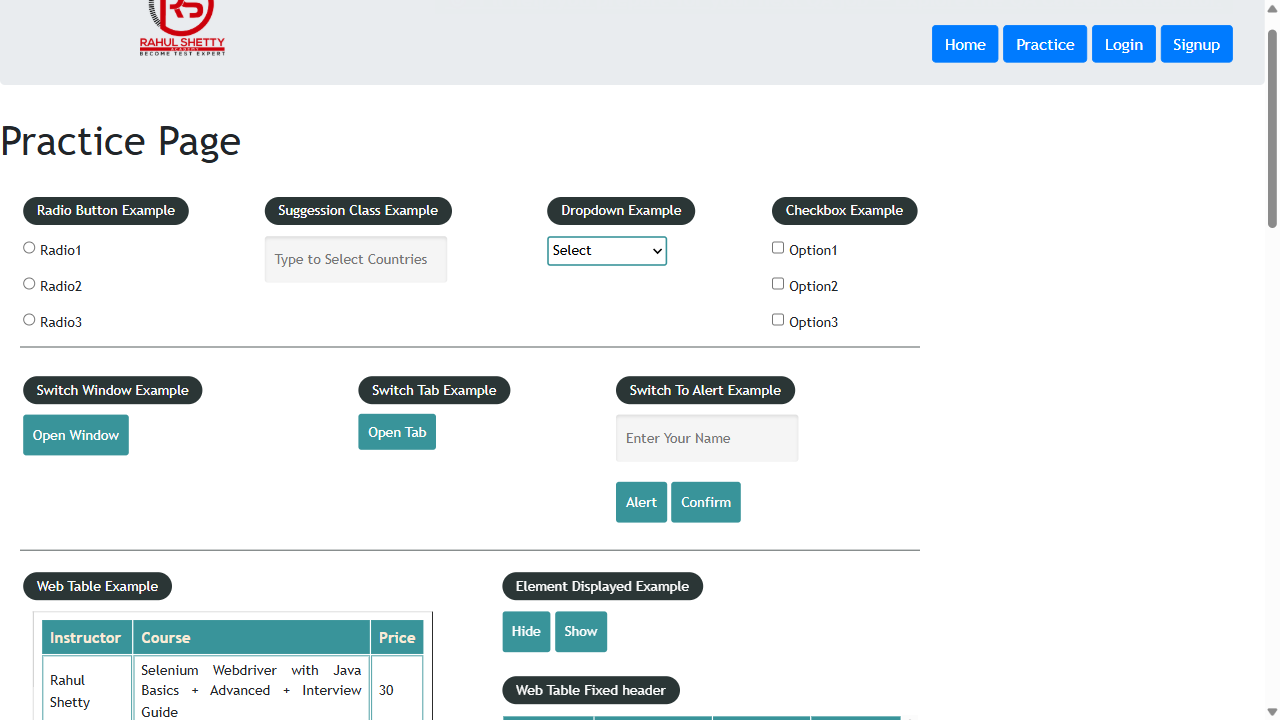
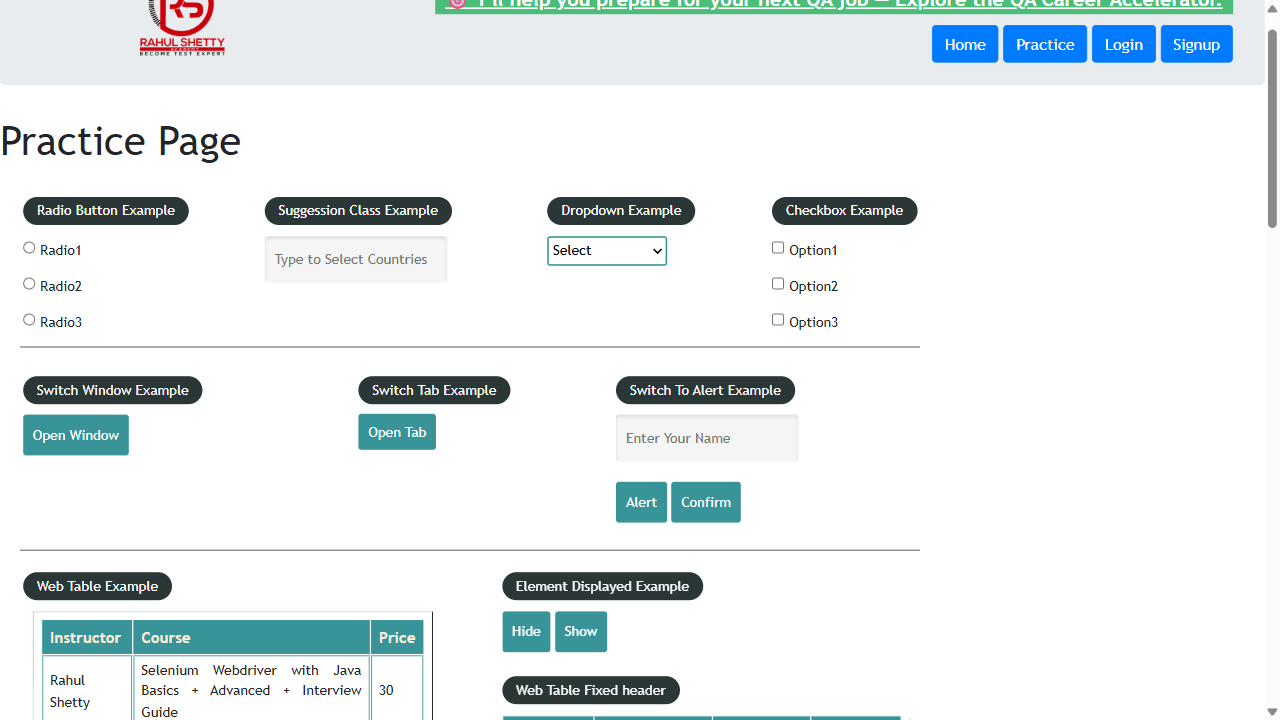
fix test errors- visual comparision

Changed region(s): [[0.3438, 0.0, 0.9688, 0.0306]]

diff --git a/tests/llc.spec.js b/tests/llc.spec.js
@@ -1,15 +1,15 @@
 import { expect, test } from '@playwright/test';
 
-test('Playwright Special Locators', async ({ page }) => {
+test.only('Playwright Special Locators', async ({ page }) => {
 
     await page.goto("https://rahulshettyacademy.com/angularpractice/")
     await page.getByLabel("Check me out if you Love IceCreams!").click()
     // incorrect locator await page.locator("input[name='name']").fill('Kiran')
-    //await page.locator("[name='name']").fill('Kiran');
-    //await page.getByLabel("Employed").click();
+    await page.locator("[name='name']").first().fill('Kiran');
+    await page.getByLabel("Employed").click();
     await page.getByPlaceholder("Password").fill("abc123") //placeHolder attribute should be in DOM
     await page.getByLabel("Employed").check();
-    await page.getByLabel("Gender1").selectOption("Female") // selectOption works for select tag element only
+    await page.getByLabel("Gender").selectOption("Female") // selectOption works for select tag element only
     await page.getByRole("button", { name: 'Submit' }).click() //input or button tag or class should have something related to button
     await page.getByText("Success! The Form has been submitted successfully!.").isVisible();
     await expect(page.getByText("Success! The Form has been submitted successfully!.")).toBeVisible({ timeout: 8000 })

diff --git a/tests/MoreValidation.spec.js b/tests/MoreValidation.spec.js
@@ -54,5 +54,7 @@ test('Screenshot and visual comaprison', async ({ page }) => {
 
 test('Visual comaprison', async ({ page }) => {
     await page.goto('https://rahulshettyacademy.com/AutomationPractice/');
-    expect(await page.screenshot()).toMatchSnapshot('landing.png');
+    expect(await page.screenshot()).toMatchSnapshot('landing.png', {
+        maxDiffPixelRatio: 0.05
+    });
 })
